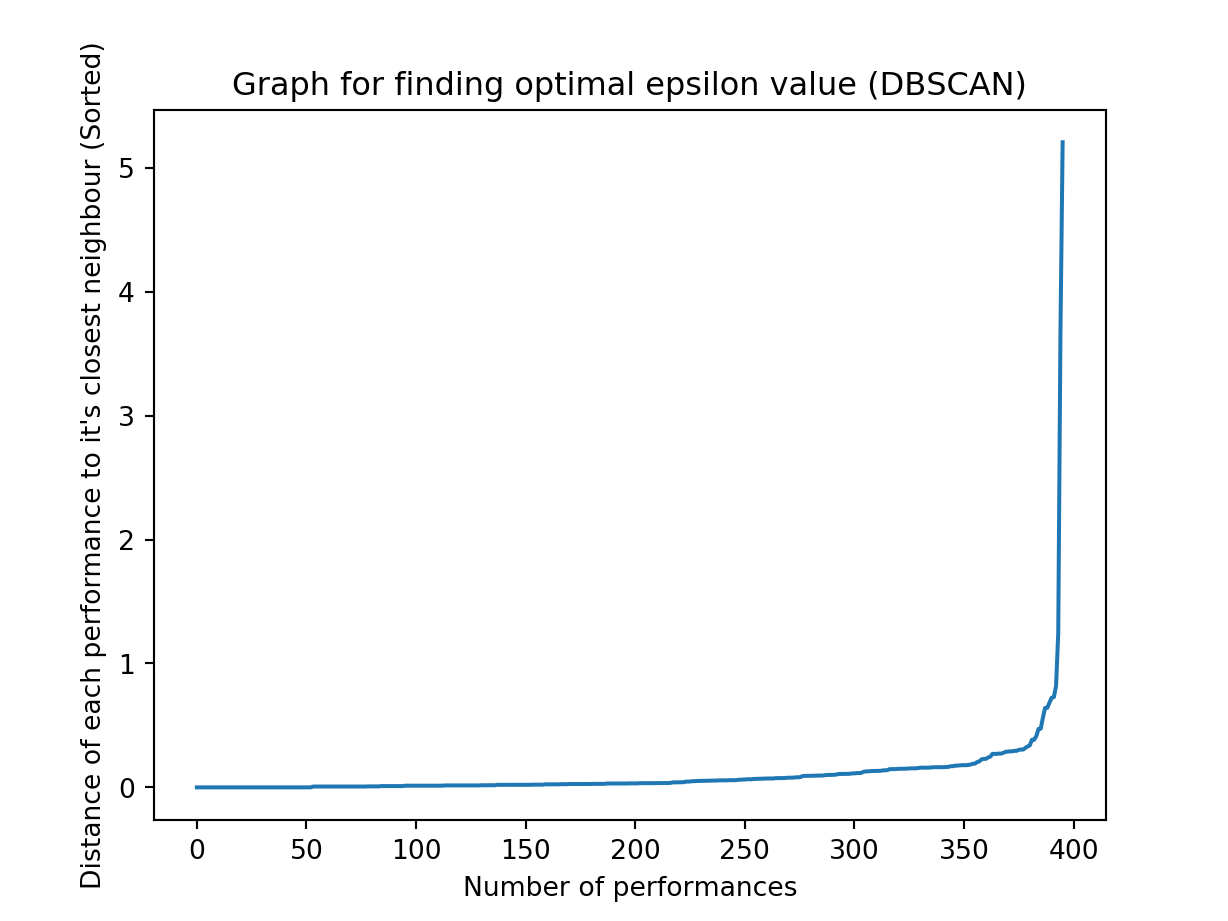
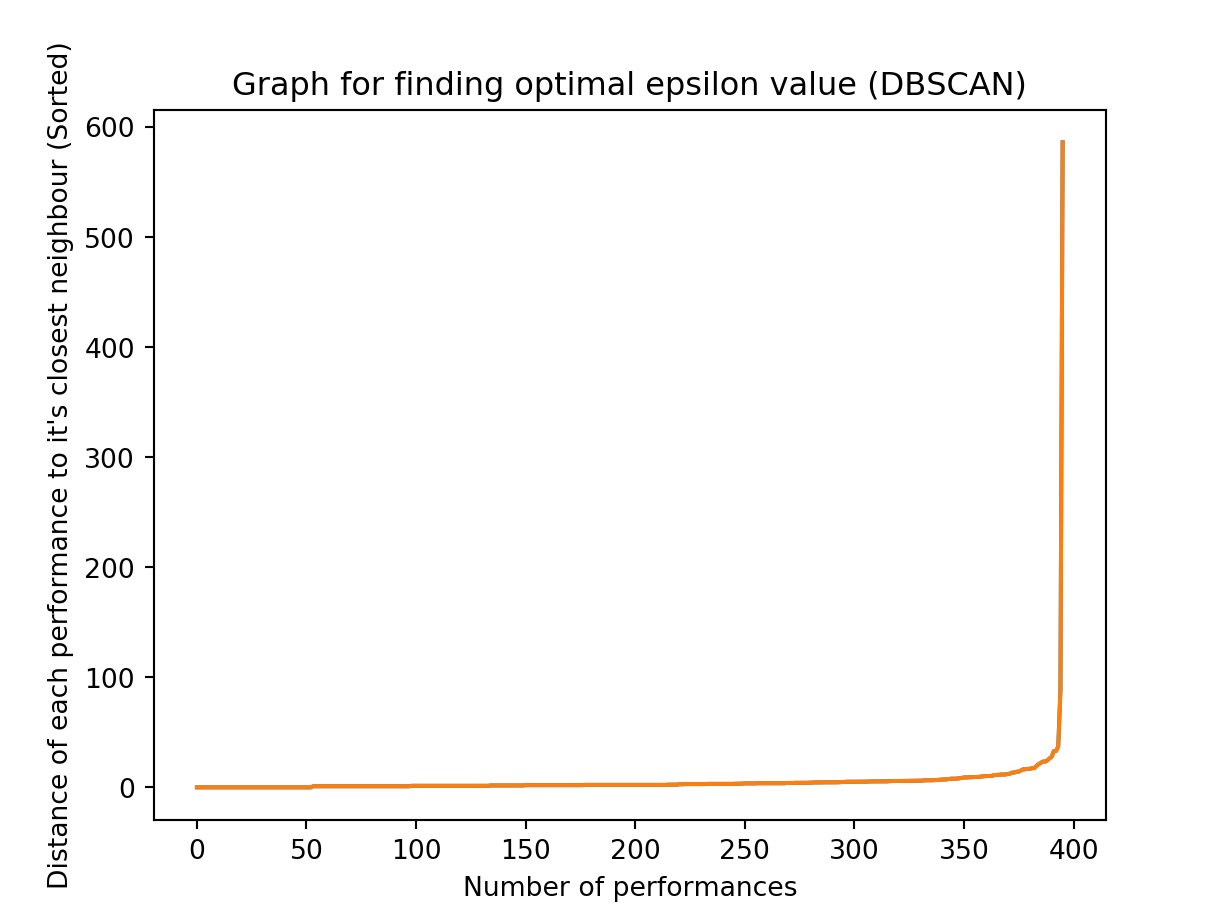
distance matrix input instead of samples (DBscan)

Changed region(s): [[0.0309, 0.0608, 0.1238, 0.9729], [0.1547, 0.152, 0.8664, 0.8817]]

diff --git a/etree-browser/cluster_service.py b/etree-browser/cluster_service.py
@@ -37,12 +37,16 @@ class ClusterService:
 
         track_analysis = self.model.get_analysis_for_track(artist_name,track_name)
 
-        features =  track_analysis[['Track duration','Tempo','Max Key']]
-
+        X =  track_analysis[['Track duration','Tempo','Max Key']]
+        dissimilarities = metrics.pairwise_distances(X,metric = 'euclidean')
         #scale and standardize
-        X = StandardScaler().fit_transform(features)
+        #X = StandardScaler().fit_transform(features)
         #reduce to two dimensions
-        X = PCA(n_components=2).fit_transform(X)
+        #X = PCA(n_components=2).fit_transform(X)
+
+        #Key preprocessing
+
+
 
         # ############################# EPSILON value ###############################
         # Epsilon and min samples
@@ -74,7 +78,7 @@ class ClusterService:
 
 
         ################################## Execute ######################################
-        db = DBSCAN(eps=0.5,min_samples=4).fit(X)
+        db = DBSCAN(eps=100,min_samples=50,metric = 'precomputed').fit(dissimilarities)
         core_samples_mask = np.zeros_like(db.labels_, dtype=bool)
         core_samples_mask[db.core_sample_indices_] = True
         clusters = db.labels_
@@ -93,13 +97,13 @@ class ClusterService:
 
         # ############################ Plot clustering ################################
 
-        plt.figure(1)
+        #plt.figure(1)
 
-        colors = ['royalblue', 'maroon', 'forestgreen', 'mediumorchid', 'tan', 'deeppink', 'olive', 'goldenrod',
-                  'lightcyan', 'navy']
-        vectorizer = np.vectorize(lambda x: colors[x % len(colors)])
-        plt.scatter(X[:, 0], X[:, 1], c=vectorizer(clusters))
-        plt.savefig('dbscan.png', dpi=192)
+        #colors = ['royalblue', 'maroon', 'forestgreen', 'mediumorchid', 'tan', 'deeppink', 'olive', 'goldenrod',
+        #          'lightcyan', 'navy']
+        #vectorizer = np.vectorize(lambda x: colors[x % len(colors)])
+        #plt.scatter(X[:, 0], X[:, 1], c=vectorizer(clusters))
+        #plt.savefig('dbscan.png', dpi=192)
 
         #display the cluster labels and their size
         unique_elements, counts = np.unique(clusters, return_counts=True)

diff --git a/etree-browser/templates/etree/views.py b/etree-browser/templates/etree/views.py
@@ -81,7 +81,7 @@ def analysis():
     artist_name = urllib.parse.unquote(artist)
     track_name = urllib.parse.unquote(track)
 
-    track_analysis = ClusterService().get_kmedoids_for_track(artist_name,track_name)
+    track_analysis = ClusterService().get_dbscan_for_track(artist_name,track_name)
    #The key for this one on getsongbpm is Wrong
     #studio_metadata = TrackService().get_actual_tempo_and_key()
     #print("KEY " + str(studio_metadata["key"]))
